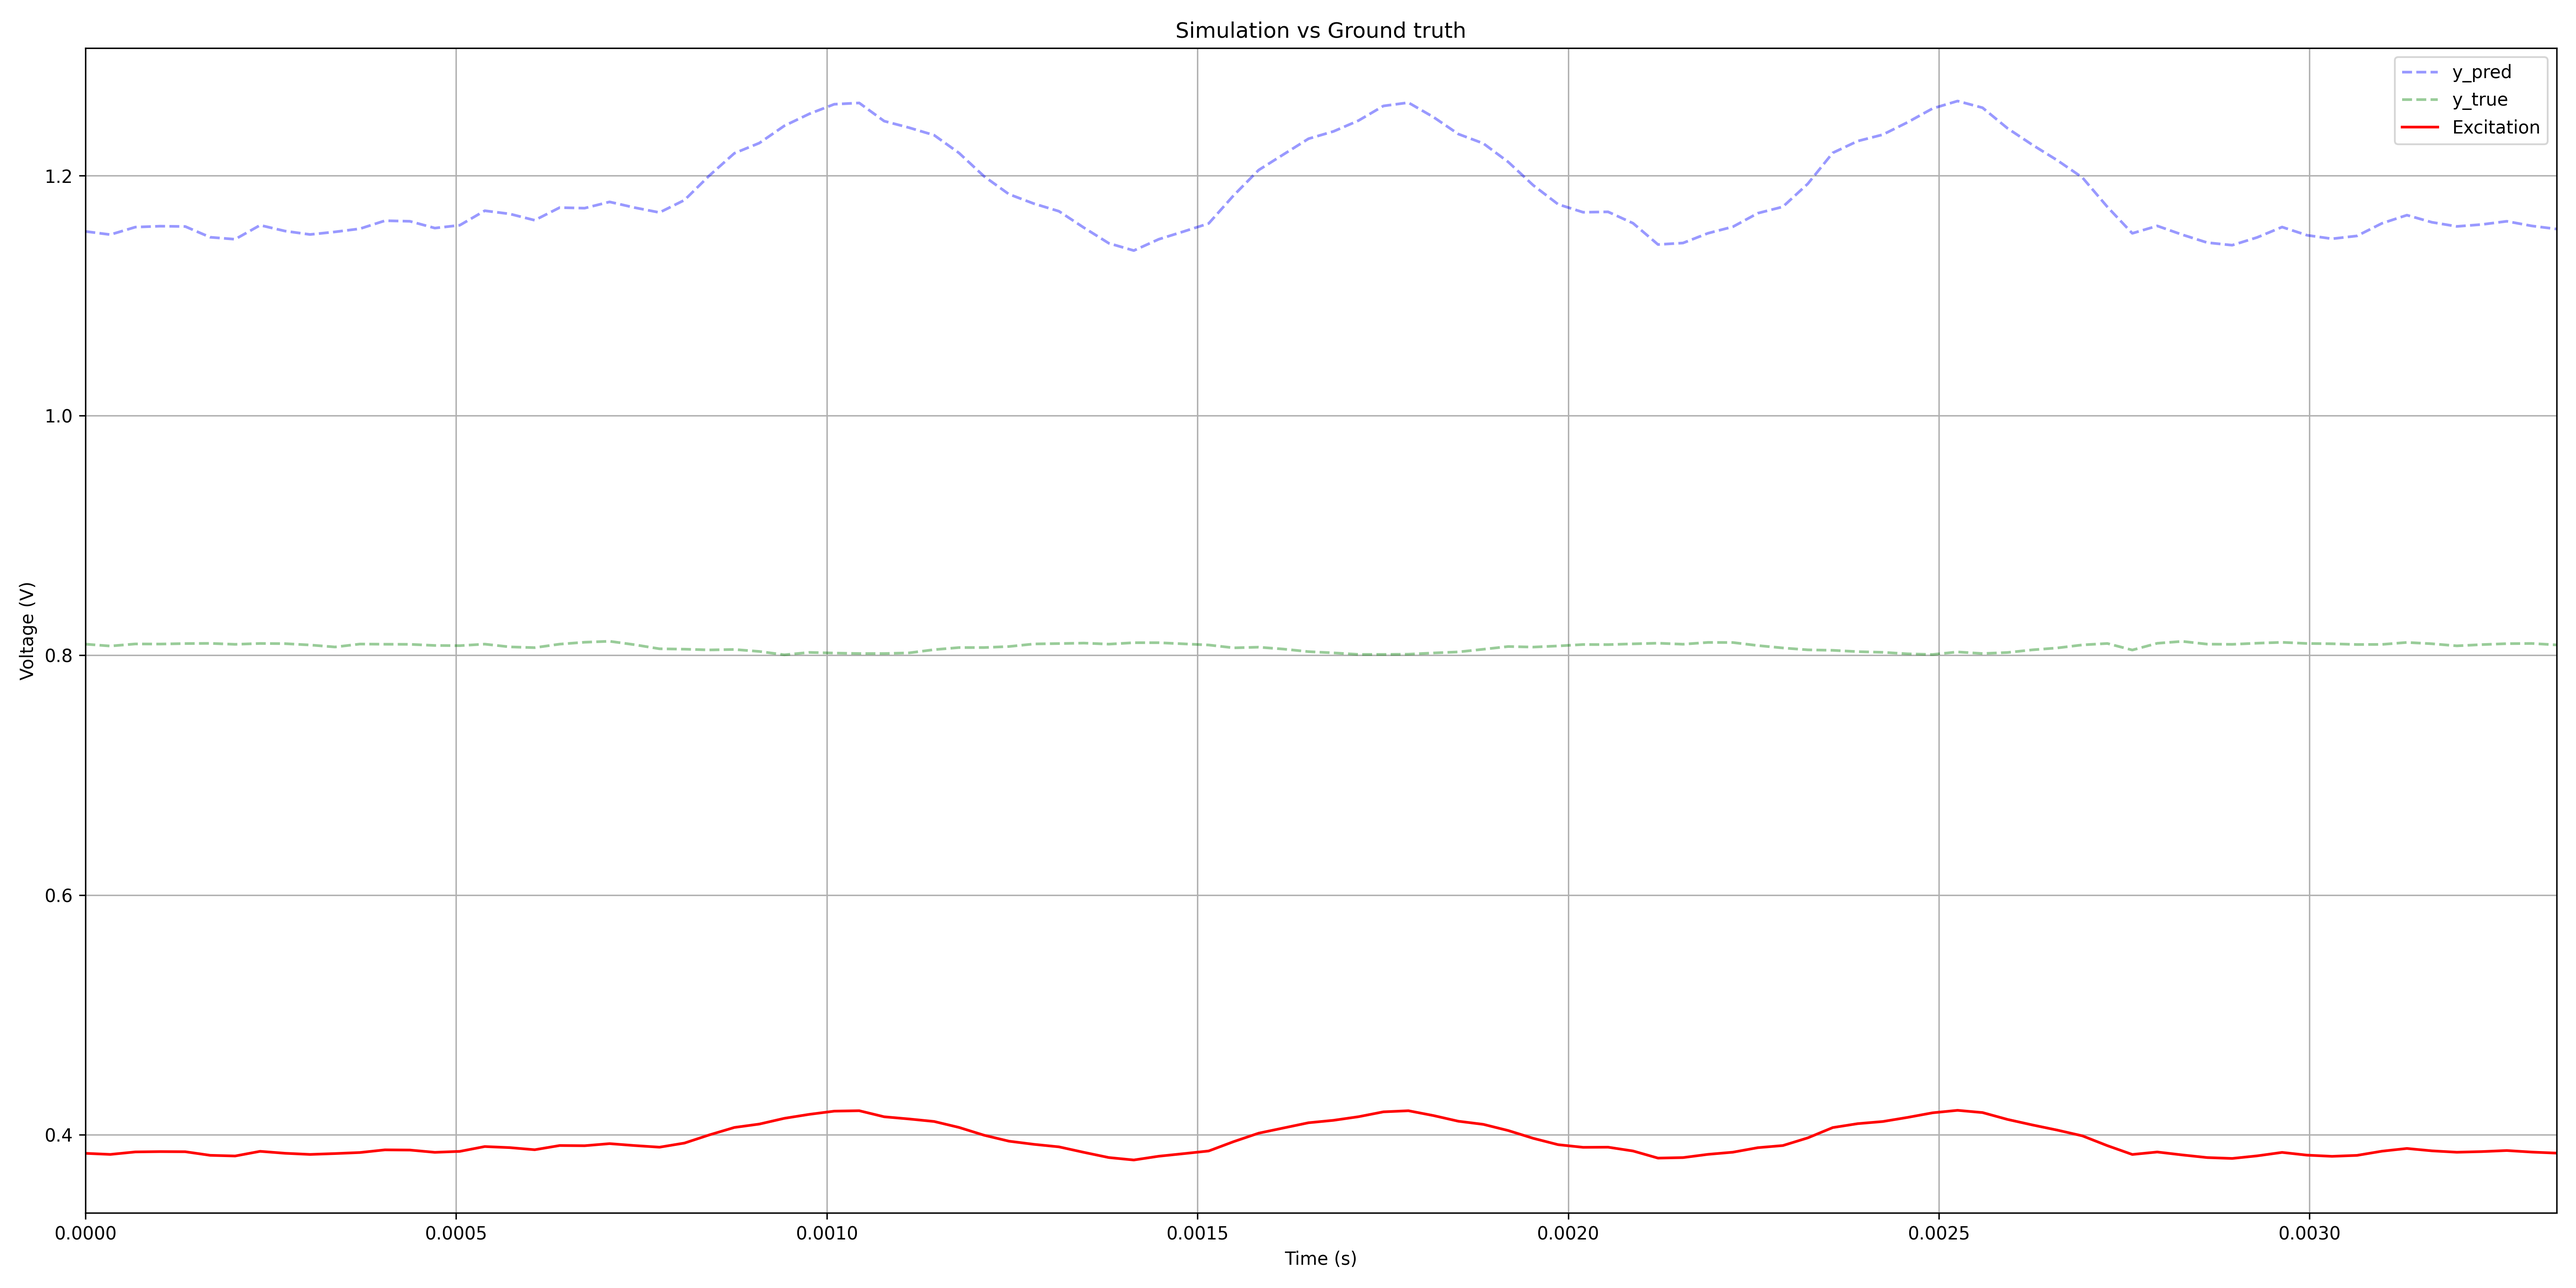
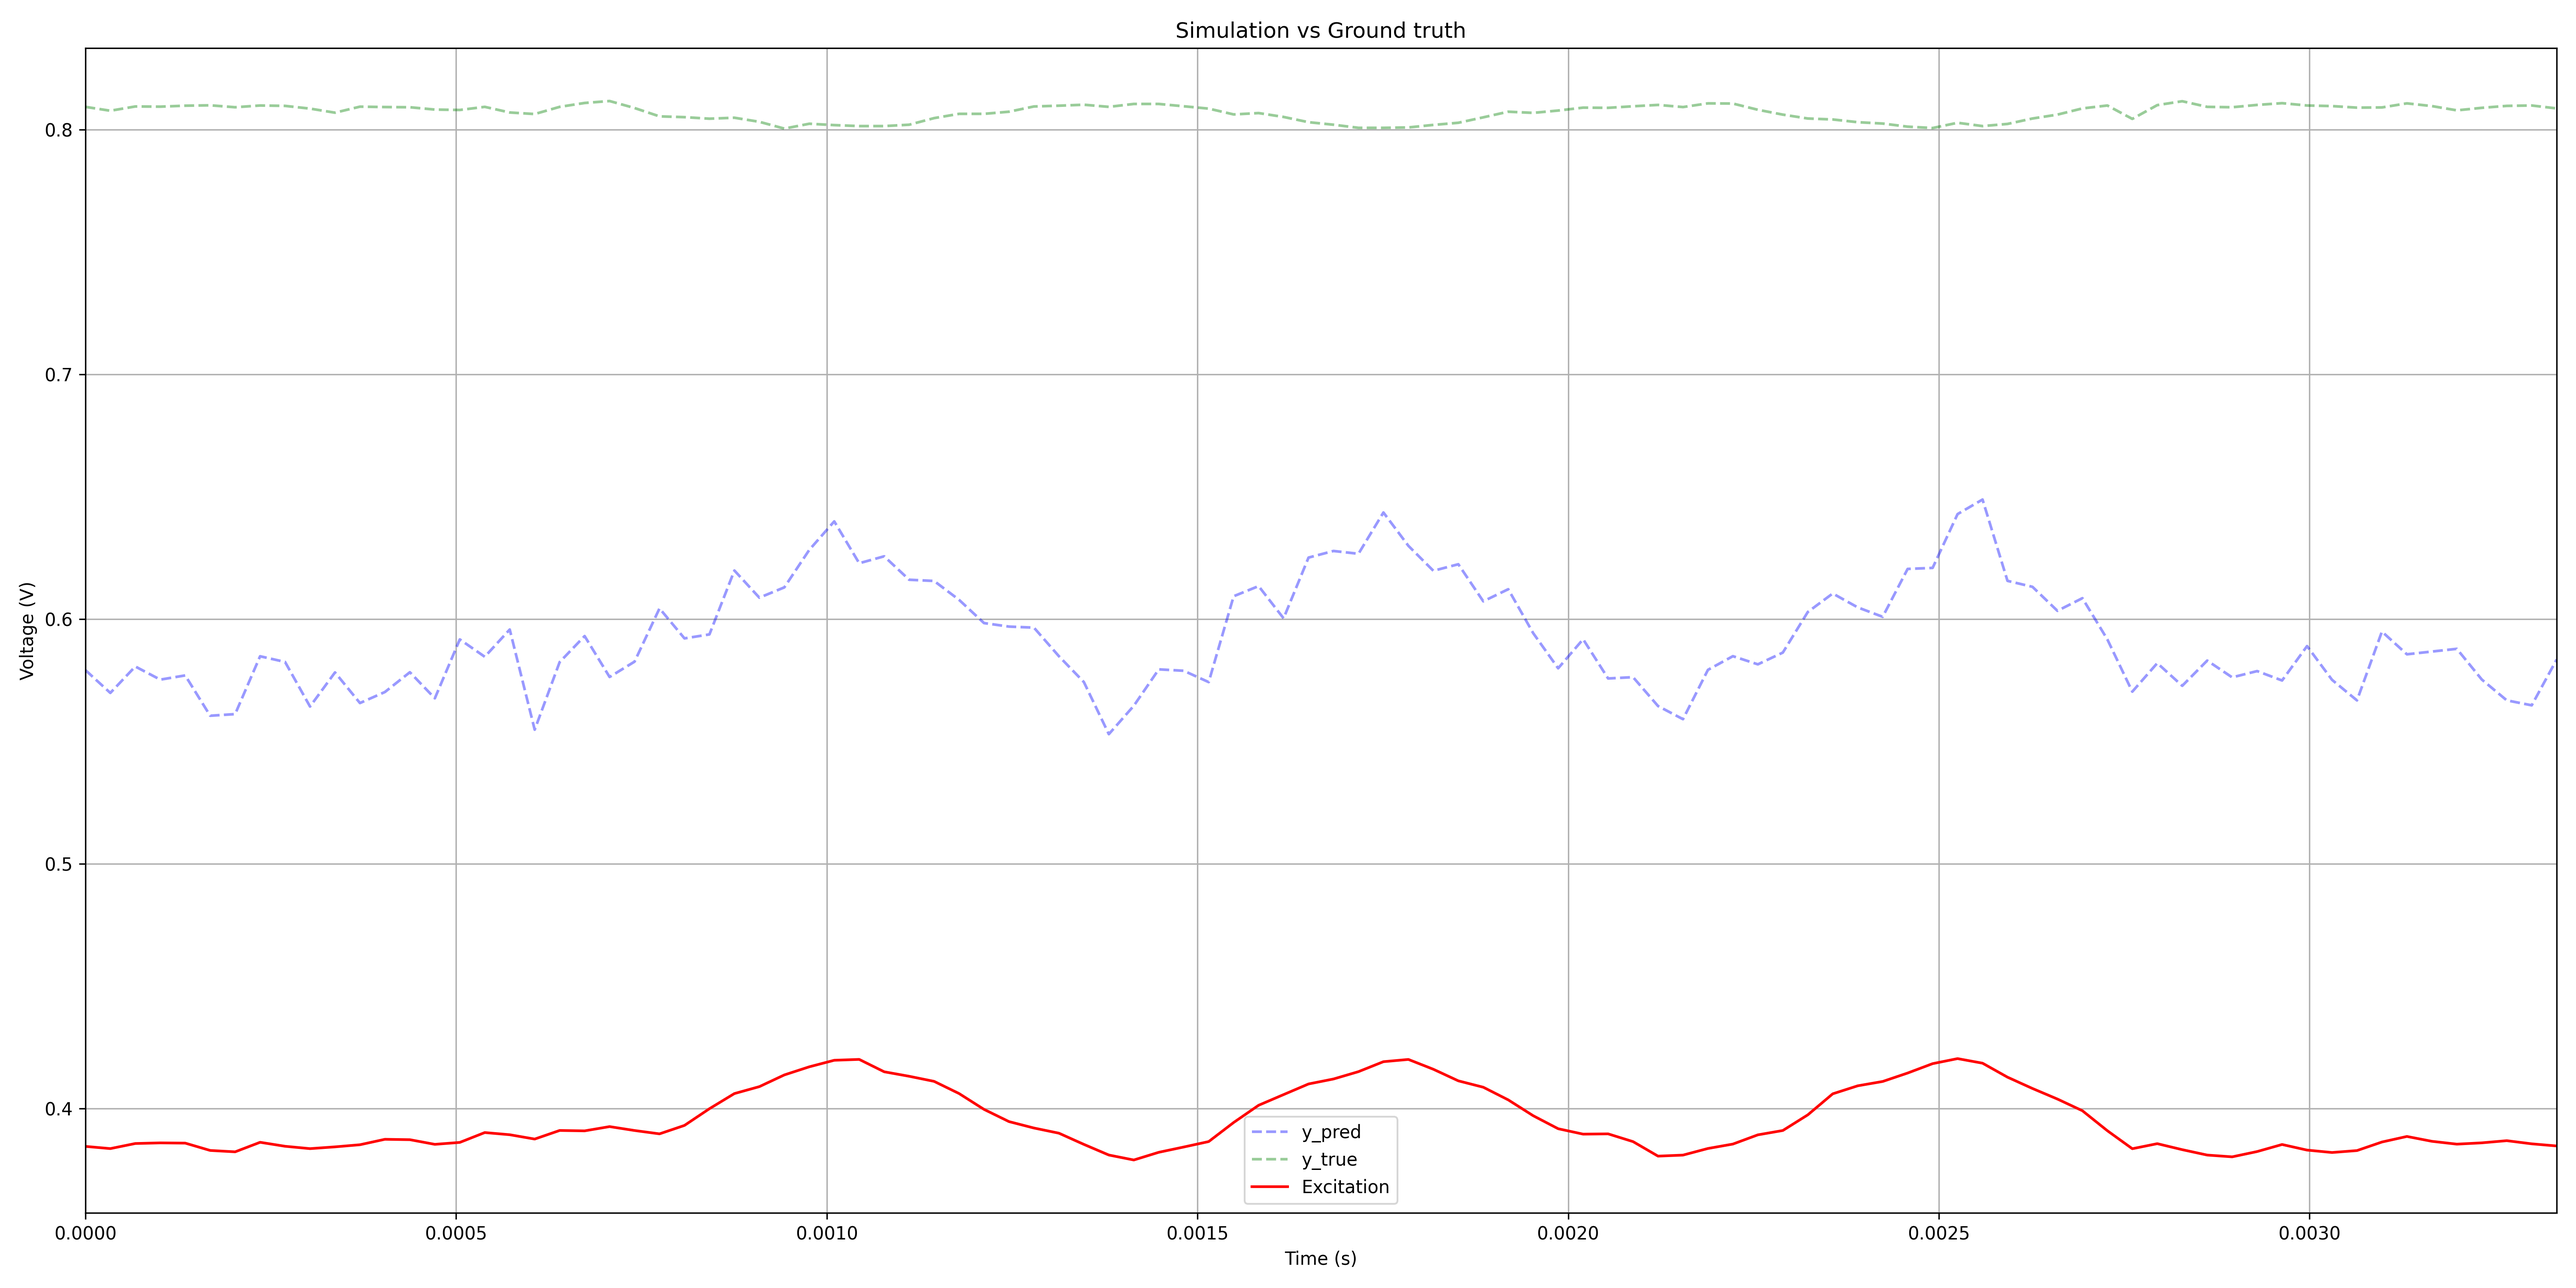
minor change

diff --git a/run_model.py b/run_model.py
@@ -37,10 +37,10 @@ def main():
     fbs = np.array([30000])
 
     # Electrical circuit blocks
-    Rs = jnp.array(300.)                      # Resistance of supply?
-    R = jnp.array([1., 20.])             # Resistance
-    C = jnp.array([.1, 10.])            # Capacitance
-    alpha = jnp.array([0.88, 0.52])    # Fractional factor linked with the capacitance
+    Rs = jnp.array(1.5)                  # Resistance of supply?
+    R = jnp.array([1., 2.])             # Resistance
+    C = jnp.array([.1, 3.])            # Capacitance
+    alpha = jnp.array([0.88, 0.92])    # Fractional factor linked with the capacitance
 
     params = {
         "fbs": fbs,
@@ -53,7 +53,7 @@ def main():
     }
 
     # run simulation
-    y_pred = run_simulation.main(I,params)
+    y_pred = run_simulation.main(I,params,apply_noise=True)
 
     # compute metrics
     n = len(y_true)   

diff --git a/run_simulation.py b/run_simulation.py
@@ -89,7 +89,7 @@ def main(I, parameters:dict, apply_noise=False):
 
         # add noise
         if apply_noise:
-            y = add_white_noise(y, 0.01, jax.random.fold_in(jax_key, i + 100))
+            y = add_white_noise(y, 0.01, jax.random.fold_in(jax_key, 100))
 
         responses.append(jnp.asarray(y, copy=True))
 
